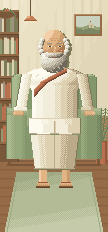
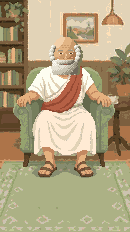
Socrates scene from the generated picture, on the bust's grid, with the bust's head
Picture 4 of the ElevenLabs set (Nano Banana 2, bust and café as references) is
kept as the source and read back cell by cell onto a 130 x 232 grid (3.64 px a
cell on a 390 x 844 phone, the bust's own size), reduced to 40 colours. The
head and beard are replaced by the bust's pixels, which fit the generated head
1:1, so the face patches still line up. bust.png re-cuts the bust's framing
from the scene for comparison with the Meet page portrait.

Claude-Session: https://claude.ai/code/session_01CkNb4fKBKqzoVDQabCd3oK

diff --git a/ui/web/tools/art/socrates_scene.py b/ui/web/tools/art/socrates_scene.py
@@ -1,28 +1,34 @@
-"""Socrates' full-screen chat scene, drawn pixel by pixel in the bust's style.
+"""Socrates' full-screen chat scene: a generated picture, put on the bust's pixel grid.
 
-The head and beard are the bust's own pixels (portrait_socrates.png read back onto its
-56 x 64 grid), so the character stays the same; the rest of him and the café are drawn
-here on the same grid: he sits back in a low armchair whose back meets his shoulders,
-forearms on its rolled arms, feet on the rug. The table that will cover his lower half
-is a separate layer, added later. Expressions are small patches over the face (eyes, brows,
-mouth, cheeks), so changing mood never moves the head.
+1. sources/socrates_seated_gen.jpg was generated (ElevenLabs, Nano Banana 2, 9:16) from the
+   bust and the café scene as references. Generated "pixel art" is not on a true grid, so
+   each 5.9 px cell is read back as its most common colour onto a 130 x 232 grid: on a
+   390 x 844 phone a cell is then 3.64 px, the same as the bust on the Meet page.
+2. The colours are reduced to 40, with no dithering added.
+3. The head and beard are replaced by the bust's own pixels (portrait_socrates.png on its
+   56 x 64 grid), which fit the generated head 1:1, so he is the same man as on the Meet
+   page and the face patches below line up.
+4. Expressions are small patches over the face (eyes, brows, mouth, cheeks).
 
     .venv/bin/python ui/web/tools/art/socrates_scene.py
 
-writes ui/web/assets/personas/socrates/full/: scene.png (108 x 232, the attentive face),
-faces.png (one row per mood: open, half, closed, talk1, talk2) and faces.json (where the
-patch goes, the frame order and the timings the chat page uses).
+writes ui/web/assets/personas/socrates/full/: scene.png (130 x 232, the attentive face),
+faces.png (one row per mood: open, half, closed, talk1, talk2), faces.json, and bust.png
+(the bust's framing re-cut from the scene, for comparison with the Meet page portrait).
+The table that will cover his lower half is a separate layer, added later.
 """
 import json
-import math
-import random
 from pathlib import Path
 
+import numpy as np
 from PIL import Image
 
 ROOT = Path(__file__).resolve().parents[4]
 OUT = ROOT / "ui/web/assets/personas/socrates/full"
-W, H = 108, 232       # 3.64 px a cell on a 390 x 844 phone: the same pixel size as the bust on the Meet page
+SOURCE = Path(__file__).resolve().parent / "sources/socrates_seated_gen.jpg"
+W, H = 130, 232
+DX, DY = 37, 28                  # where the bust's grid sits on the scene's (its head fits here 1:1)
+BG = {(171, 175, 136), (162, 168, 128), (179, 182, 145), (153, 160, 120), (144, 153, 111)}   # bust background
 
 
 def bust_grid(path=ROOT / "ui/web/assets/portrait_socrates.png", nw=56, nh=64):
@@ -35,232 +41,34 @@ def bust_grid(path=ROOT / "ui/web/assets/portrait_socrates.png", nw=56, nh=64):
     return out
 
 
-B = bust_grid(); bp = B.load()
-BG = {(171,175,136),(162,168,128),(179,182,145),(153,160,120),(144,153,111)}   # bust background greens
-P = dict(
-  wall=(234,224,196), wall2=(226,214,184), wallhi=(240,232,208),
-  panel=(170,128,90), panel2=(156,116,80), panelhi=(184,142,100), paneldk=(132,96,64),
-  shelf=(122,88,58), shelfdk=(98,70,46), shelfhi=(146,108,72),
-  bk1=(144,153,111), bk2=(184,112,79), bk3=(221,209,178), bk4=(156,148,128), bk5=(124,122,87), bk6=(201,154,108),
-  frame=(150,108,70), framehi=(180,138,94), sky=(200,210,190), hill=(150,160,120), hill2=(124,134,98), town=(214,196,160),
-  lamp=(196,128,84), lampdk=(156,94,60), lamphi=(232,170,120), cord=(110,84,60), glow=(250,236,200),
-  leaf=(124,140,98), leaf2=(104,120,82), leafhi=(150,164,118), pot=(184,112,79), potdk=(148,87,61),
-  chair=(150,168,124), chair2=(132,150,108), chairhi=(170,186,142), chairdk=(112,128,92),
-  robe=(242,236,218), robehi=(253,250,240), robe2=(221,209,178), robe3=(187,169,138), robeedge=(124,122,87),
-  sash=(184,112,79), sashhi=(211,140,104), sash2=(148,87,61), sashdk=(111,63,44),
-  skin=(226,180,132), skinhi=(242,207,168), skin2=(201,154,108), skin3=(168,119,79),
-  wood=(176,126,84), wood2=(164,116,76), woodhi=(192,142,96), wooddk=(140,98,62), woodedge=(116,80,50),
-  cup=(246,239,226), cup2=(221,209,178), coffee=(111,63,44), saucer=(230,226,212),
-)
-im = Image.new('RGB', (W, H), P['wall']); px = im.load()
-def put(x, y, c):
-    if 0 <= x < W and 0 <= y < H: px[x, y] = P[c] if isinstance(c, str) else c
-def rect(x0, y0, x1, y1, c):
-    for y in range(y0, y1):
-        for x in range(x0, x1): put(x, y, c)
-def dith(x0, y0, x1, y1, c1, c2):
-    for y in range(y0, y1):
-        for x in range(x0, x1): put(x, y, c1 if (x + y) % 2 else c2)
+def on_grid(path, gw, gh):
+    """Each cell's most common colour (colours bucketed by 12 to ignore compression noise)."""
+    src = np.asarray(Image.open(path).convert("RGB")).astype(np.int32)
+    h0, w0, _ = src.shape
+    out = np.zeros((gh, gw, 3), np.uint8)
+    for gy in range(gh):
+        y0, y1 = int(gy * h0 / gh), int((gy + 1) * h0 / gh)
+        for gx in range(gw):
+            x0, x1 = int(gx * w0 / gw), int((gx + 1) * w0 / gw)
+            cell = src[y0 + 1:y1 - 1, x0 + 1:x1 - 1].reshape(-1, 3)
+            q = cell // 12
+            keys = q[:, 0] * 10000 + q[:, 1] * 100 + q[:, 2]
+            vals, counts = np.unique(keys, return_counts=True)
+            out[gy, gx] = cell[keys == vals[counts.argmax()]].mean(0)
+    img = Image.fromarray(out)
+    return img.quantize(colors=40, method=Image.Quantize.MAXCOVERAGE, dither=Image.Dither.NONE).convert("RGB")
 
-# ---------- room ----------
-def band(stops, f, x, y, d=.07):
-    """The bust's way of shading: flat tones whose borders are a checkerboard of the two
-    neighbours, a few cells wide. stops = ((colour, up_to_f), ...), last up_to_f = 1."""
-    for i, (c, up) in enumerate(stops[:-1]):
-        nxt = stops[i + 1][0]
-        if f < up - d: return c
-        if f < up + d: return c if (x + y) % 2 else nxt
-    return stops[-1][0]
-ROBE = (('robehi', .16), ('robe', .58), ('robe2', .86), ('robe3', 1))
-ROBE_TOP = (('robehi', .3), ('robe', .78), ('robe2', 1))
-ROBE_LOW = (('robe', .22), ('robe2', .72), ('robe3', 1))
-CHAIR = (('chairhi', .12), ('chair', .8), ('chair2', 1))
-P.update(floor=(150,108,72), floor2=(138,98,64), floorhi=(164,120,80), floordk=(118,82,52),
-         rug=(178,186,150), rug2=(160,170,132), rugedge=(132,142,104), rughi=(196,202,170),
-         shadow=(120,86,58), sandal=(122,84,52), sandal2=(98,66,40), strap=(148,87,61))
-CX = 54                          # Socrates' centre line
-FLOOR = 162                      # where the wall meets the floor (the chair stands here)
-for x in range(W):
-    for y in range(0, 116):
-        stripe = (x // 3) % 3 == 0
-        g = (x + y * .6) / (W + 70)                  # light falls from the upper left
-        put(x, y, band((('wallhi', .18), ('wall', .62), ('wall2', 1)), g, x, y, .05) if not stripe else
-                  band((('wall', .4), ('wall2', 1)), g, x, y, .06))
-rect(0, 116, W, FLOOR, 'panel'); rect(0, 116, W, 118, 'panelhi'); rect(0, 118, W, 119, 'paneldk')
-for x in range(4, W, 13):
-    rect(x, 122, x + 10, 123, 'panelhi'); rect(x, 123, x + 1, 157, 'panelhi'); rect(x + 9, 123, x + 10, 157, 'panel2'); rect(x, 156, x + 10, 157, 'panel2')
-rect(0, FLOOR - 2, W, FLOOR, 'paneldk')
-rect(0, FLOOR, W, H, 'floor')
-for y in range(FLOOR + 7, H, 9):
-    rect(0, y, W, y + 1, 'floor2'); dith(0, y + 1, W, y + 2, 'floor', 'floor2')
-RUG_TOP = 172
-for y in range(RUG_TOP, H):
-    k = (y - RUG_TOP) // 5
-    l, r = 16 - k, W - 17 + k
-    for x in range(l, r + 1): put(x, y, band((('rug2', .2), ('rug', .7), ('rughi', 1)), (y - RUG_TOP) / (H - RUG_TOP) * .8 + (x - l) / (r - l) * .2, x, y, .06))
-    if y == RUG_TOP + 2: rect(l + 2, y, r - 1, y + 1, 'rug2')
-    elif y > RUG_TOP + 2: put(l + 2, y, 'rug2'); put(r - 2, y, 'rug2')
-# bookshelf
-rect(0, 10, 19, FLOOR, 'shelf'); rect(18, 10, 19, FLOOR, 'shelfdk'); rect(0, 10, 19, 12, 'shelfhi')
-random.seed(7)
-for sy in (13, 35, 57, 79, 101, 123):
-    rect(0, sy + 19, 19, sy + 21, 'shelfhi'); rect(0, sy + 21, 19, sy + 22, 'shelfdk')
-    x = 0
-    while x < 17:
-        w = random.choice((2, 2, 3)); h = random.choice((14, 15, 16, 17)); c = random.choice(('bk1', 'bk2', 'bk3', 'bk4', 'bk5', 'bk6'))
-        if random.random() < .12: x += 1; continue
-        rect(x, sy + 19 - h, min(x + w, 18), sy + 19, c); rect(x, sy + 19 - h, min(x + w, 18), sy + 20 - h, 'shelfhi' if c != 'bk3' else 'bk4')
-        x += w
-for (x, y) in [(3,9),(4,8),(5,8),(6,9),(7,8),(8,9),(2,10),(9,10),(10,9),(11,10),(12,11),(13,12),(14,13),(15,15)]:
-    put(x, y, 'leaf'); put(x, y + 1, 'leaf2')
-rect(5, 9, 9, 11, 'pot')
-# painting and lamp
-rect(74, 14, 102, 36, 'frame'); rect(74, 14, 102, 15, 'framehi'); rect(74, 14, 75, 36, 'framehi')
-rect(76, 16, 100, 34, 'sky')
-for x in range(76, 100):
-    rect(x, 26 + int(2 * math.sin(x / 3)), x + 1, 34, 'hill'); rect(x, 29 + int(1.5 * math.cos(x / 2.2)), x + 1, 34, 'hill2')
-rect(89, 22, 91, 28, 'town'); rect(92, 24, 94, 28, 'town'); put(90, 21, 'potdk')
-LX = 30                          # the lamp hangs left of his head
-rect(LX, 0, LX + 1, 16, 'cord')
-for i, y in enumerate(range(16, 21)): rect(LX - 2 - i, y, LX + 3 + i, y + 1, 'lamp')
-rect(LX - 6, 20, LX + 7, 21, 'lampdk'); rect(LX - 3, 16, LX, 18, 'lamphi'); dith(LX - 5, 21, LX + 6, 23, 'glow', 'wall')
-# plant on the floor, right
-rect(96, 140, 107, FLOOR + 2, 'pot'); rect(96, 140, 107, 142, 'potdk'); rect(105, 142, 107, FLOOR + 2, 'potdk')
-for (x0, y0, ln, dx) in [(101, 139, 26, -0.25), (102, 139, 32, 0.12), (100, 139, 20, -0.6), (103, 139, 22, 0.4)]:
-    for t in range(ln):
-        x = int(x0 + dx * t); y = y0 - t; put(x, y, 'leaf2')
-        if t % 3 == 0:
-            for k in range(1, 4): put(x - k, y + k // 2, 'leaf'); put(x + k, y + k // 2, 'leafhi' if k == 1 else 'leaf')
 
-# ---------- Socrates: proportions ----------
-# The head is the bust's own pixels: top at bust row 9, chin near row 40 (head height ~31).
-# A seated adult is about five heads tall: shoulders just under the beard's sides, the seat
-# about 1.6 heads lower, knee height about 1.6 heads.
-DX, DY = CX - 28, 21             # bust (28, 9) -> (CX, 30)
-SHOULDER = 76                    # shoulder points
-ARM_TOP = 108                    # top of the chair arms, elbow height
-WAIST = 118                      # where his body meets the seat
-KNEE = 134                       # the knee edge
-HEM = 170                        # the robe ends at mid-shin
-FEET = 182
-
-# ---------- armchair ----------
-BACK_TOP = SHOULDER - 2          # the low back meets his shoulders
-for y in range(BACK_TOP, WAIST + 8):
-    half = 42 if y > BACK_TOP + 4 else 42 - (BACK_TOP + 4 - y) // 2 * 2
-    for x in range(CX - half, CX + half):
-        c = 'chairhi' if y < BACK_TOP + 2 else band(CHAIR, (x - CX + half) / (2 * half), x, y)
-        put(x, y, c)
-    put(CX - half - 1, y, 'chairdk'); put(CX + half, y, 'chairdk')
-rect(CX - 28, WAIST + 8, CX + 28, FLOOR - 3, 'chair2')          # seat front, behind his legs
-def arm_rest(x0, x1, light):
-    for y in range(ARM_TOP, FLOOR - 3):
-        for x in range(x0, x1):
-            f = (x - x0) / (x1 - x0)
-            if y < ARM_TOP + 7: c = band((('chairhi', .5), ('chair', 1)), (y - ARM_TOP) / 7, x, y, .15)
-            else: c = band((('chairhi', .25), ('chair', .8), ('chair2', 1)), f, x, y) if light else band((('chair', .2), ('chair2', .85), ('chairdk', 1)), f, x, y)
-            put(x, y, c)
-        put(x0 - 1 if light else x1, y, 'chairdk')
-arm_rest(CX - 47, CX - 27, True); arm_rest(CX + 27, CX + 47, False)
-for x0 in (CX - 46, CX + 43): rect(x0, FLOOR - 3, x0 + 3, FLOOR + 2, 'shelf')
-rect(CX - 47, FLOOR + 2, CX + 47, FLOOR + 4, 'shadow')
-
-# ---------- Socrates ----------
-for by in range(9, 48):                                     # head and beard
+base = on_grid(SOURCE, W, H)
+bp = bust_grid().load()
+_p = base.load()
+for by in range(9, 47):                       # head and beard: the bust's pixels
     for bx in range(56):
         c = bp[bx, by]
-        if c not in BG: put(bx + DX, by + DY, c)
-def shade(f):            # light from the left
-    return 'robehi' if f < .16 else 'robe' if f < .58 else 'robe2' if f < .86 else 'robe3'
-def rshade(f, x, y): return band(ROBE, f, x, y)
-# shoulder line: the bust's own slope (rows 47-55) carried out to the shoulder points
-def torso_lr(y):
-    top = DY + 47
-    if y < SHOULDER:
-        t = (y - top) / (SHOULDER - top)
-        return round(CX - 15 - 16 * t ** .6), round(CX + 13 + 18 * t ** .6)
-    t = min(1, (y - SHOULDER) / 14)
-    return round(CX - 31 + 9 * t), round(CX + 31 - 9 * t)      # the body below the arms
-for y in range(DY + 47, WAIST + 1):
-    l, r = torso_lr(y)
-    for x in range(l, r + 1): put(x, y, rshade((x - l) / (r - l), x, y))
-    put(r + 1, y, 'robeedge')
-for by in range(47, 64):                                     # the bust's chest and sash, where they fit
-    for bx in range(56):
-        c = bp[bx, by]; x, y = bx + DX, by + DY
-        l, r = torso_lr(y)
-        if c not in BG and l + 2 <= x <= r - 2: put(x, y, c)
-SASH = ('sashhi', 'sash', 'sash', 'sash', 'sash2', 'sash2', 'sashdk')
-for y in range(DY + 61, DY + 80):                            # the sash carries on to his left hip
-    x0 = DX + 14 - int((y - DY - 61) * 0.9)
-    for k, c in enumerate(SASH):
-        if torso_lr(y)[0] + 1 < x0 + k: put(x0 + k, y, c)
-for t in range(14): put(CX + 7, 100 + t, 'robe2')            # one soft fold
-# arms: from the shoulder points down and out to the chair arms; chair back shows between
-def arm(side):
-    for y in range(SHOULDER - 2, ARM_TOP + 1):
-        t = (y - SHOULDER + 2) / (ARM_TOP - SHOULDER + 2)
-        tl, tr = torso_lr(y)
-        if side == 'L':
-            xo, xi = round(CX - 32 - 6 * t), round(CX - 23 - 6 * t)
-            for x in range(xi + 1, tl): put(x, y, 'chair2')
-            for x in range(xo, xi + 1): put(x, y, band((('robehi', .3), ('robe', .8), ('robe2', 1)), (x - xo) / max(1, xi - xo), x, y, .12))
-            put(xo - 1, y, 'robeedge')
-        else:
-            xo, xi = round(CX + 32 + 6 * t), round(CX + 23 + 6 * t)
-            for x in range(tr + 2, xi): put(x, y, 'chairdk' if x == tr + 2 else 'chair2')
-            for x in range(xi, xo + 1): put(x, y, band((('robe', .2), ('robe2', .7), ('robe3', 1)), (x - xi) / max(1, xo - xi), x, y, .12))
-            put(xo + 1, y, 'robeedge')
-arm('L'); arm('R')
-# forearms along the chair arms, hands over their front ends
-rect(CX - 40, ARM_TOP - 1, CX - 27, ARM_TOP + 3, 'robe'); rect(CX - 40, ARM_TOP - 1, CX - 37, ARM_TOP + 3, 'robehi'); rect(CX - 40, ARM_TOP + 2, CX - 27, ARM_TOP + 3, 'robe2')
-rect(CX + 27, ARM_TOP - 1, CX + 40, ARM_TOP + 3, 'robe2'); rect(CX + 37, ARM_TOP - 1, CX + 40, ARM_TOP + 3, 'robe3'); rect(CX + 27, ARM_TOP + 2, CX + 40, ARM_TOP + 3, 'robe3')
-HAND = [".sssssssss.", "sHssssssss2", "sHssssssss2", "s2s2s2s2s22", ".2.2.2.2.2."]
-def hand(x0, y0, flip=False):
-    for dy, row in enumerate(HAND):
-        row = row[::-1] if flip else row
-        for dx, ch in enumerate(row):
-            if ch != '.': put(x0 + dx, y0 + dy, {'s': 'skin', 'H': 'skinhi', '2': 'skin2'}[ch])
-hand(CX - 41, ARM_TOP + 3); hand(CX + 30, ARM_TOP + 3, flip=True)
-# lap on the seat: thighs towards us, lit on top; knees; a dip between the legs
-KNEES = (CX - 11, CX + 11)
-for y in range(WAIST, KNEE):
-    l, r = CX - 25, CX + 25
-    for x in range(l, r + 1):
-        f = (x - l) / (r - l)
-        c = band(ROBE_TOP, f, x, y)
-        for kx in KNEES:
-            if ((x - kx) / 10) ** 2 + ((y - (KNEE - 5)) / 6) ** 2 < 1: c = 'robehi' if kx < CX and x < kx else 'robe' if kx < CX or x < kx + 3 else 'robe2'
-        put(x, y, c)
-    put(r + 1, y, 'robeedge')
-rect(CX - 24, WAIST, CX + 25, WAIST + 1, 'robe2')
-for y in range(WAIST + 3, KNEE): put(CX, y, 'robe3'); put(CX + 1, y, 'robe2')
-for x in range(CX - 25, CX + 26):
-    dy = 1 if min(abs(x - KNEES[0]), abs(x - KNEES[1])) < 7 else 0
-    put(x, KNEE - 1 + dy, 'robe3')
-    if dy: put(x, KNEE - 1, 'robehi' if x < CX else 'robe')
-# the robe falls from the knees to mid-shin, in shade
-for y in range(KNEE + 1, HEM):
-    l = CX - 23 + (y - KNEE) // 8; r = CX + 23 - (y - KNEE) // 8
-    for x in range(l, r + 1):
-        f = (x - l) / (r - l)
-        put(x, y, band(ROBE_LOW, f, x, y))
-    put(r + 1, y, 'robeedge')
-    for xf, d in ((CX - 13, 1), (CX + 13, -1)): put(xf + d * (y - KNEE) // 10, y, 'robe2' if xf < CX else 'robe3')
-    put(CX, y, 'robe3')
-rect(CX - 20, HEM - 2, CX + 21, HEM - 1, 'robe3'); rect(CX - 20, HEM - 1, CX + 21, HEM, 'robeedge')
-# shins and sandalled feet
-for (x0, light) in ((CX - 15, True), (CX + 8, False)):
-    for y in range(HEM, FEET):
-        for x in range(x0, x0 + 8): put(x, y, ('skinhi' if x < x0 + 2 else 'skin') if light else ('skin' if x < x0 + 5 else 'skin2'))
-    rect(x0 - 2, FEET, x0 + 10, FEET + 4, 'skin'); rect(x0 - 2, FEET + 3, x0 + 10, FEET + 4, 'skin2')
-    rect(x0 - 3, FEET + 4, x0 + 11, FEET + 6, 'sandal'); rect(x0 - 3, FEET + 5, x0 + 11, FEET + 6, 'sandal2')
-    rect(x0 - 1, FEET, x0 + 9, FEET + 1, 'strap')
-    for k in range(0, 12, 2): put(x0 - 2 + k, FEET + 2, 'skin2')
-
+        if c not in BG:
+            _p[bx + DX, by + DY] = c
 
 # ---------- expressions ----------
-base = im.copy()
 C = dict(x=(246,239,226), A=(63,45,28), B=(91,66,42), k=(156,148,128), f=(201,195,176), t=(168,119,79), u=(148,87,61),
          l=(201,154,108), h=(226,180,132), z=(156,90,68), v=(111,63,44), w=(211,140,104), y=(232,162,131), m=(112,104,90),
          i=(230,226,212), o=(242,207,168))
@@ -269,7 +77,7 @@ BROWS = {'L': (21, 25), 'R': (31, 35)}       # columns of each brow, row 22
 PATCH = (17, 19, 39, 39)                     # bust-grid box that holds every change (x0, y0, x1, y1)
 
 def face(mood='attentive', eyes=None, mouth=None):
-    img = base.copy(); p = img.load()
+    img = base.copy(); p = img.load()  # base: the aligned scene with the bust's head
     g = lambda x, y: p[x + DX, y + DY]
     def s(x, y, c): p[x + DX, y + DY] = C[c] if isinstance(c, str) else c
     skin = lambda x, y: base.getpixel((x + DX, y + DY))
@@ -349,6 +157,7 @@ def main():
     x0, y0, x1, y1 = PATCH
     px0, py0, pw, ph = x0 + DX, y0 + DY, x1 - x0, y1 - y0
     face("attentive").save(OUT / "scene.png")
+    base.crop((DX, DY, DX + 56, DY + 64)).save(OUT / "bust.png")        # the bust, re-cut from the scene
     sheet = Image.new("RGB", (pw * len(FRAMES), ph * len(MOODS)))
     for r, mood in enumerate(MOODS):
         for c, name in enumerate(FRAMES):
@@ -357,7 +166,8 @@ def main():
     meta = {
         "grid": [W, H], "patch": {"x": px0, "y": py0, "w": pw, "h": ph},
         "moods": list(MOODS), "frames": list(FRAMES),
-        "anchor": {"face": [DX + 28, DY + 27], "head": [DX + 12, DY + 9, DX + 45, DY + 48], "arm_top": ARM_TOP, "lap": WAIST, "knee": KNEE},
+        "anchor": {"face": [DX + 28, DY + 27], "head": [DX + 12, DY + 9, DX + 45, DY + 48]},
+        "source": SOURCE.name,
         # A blink and a change of mood share one path, so expressions never jump:
         # open -> half -> closed (the new mood's brows and mouth arrive here) -> half -> open.
         "timing_ms": {"half": 55, "closed": 85, "blink_every": [2800, 6500], "talk": [90, 150]},
